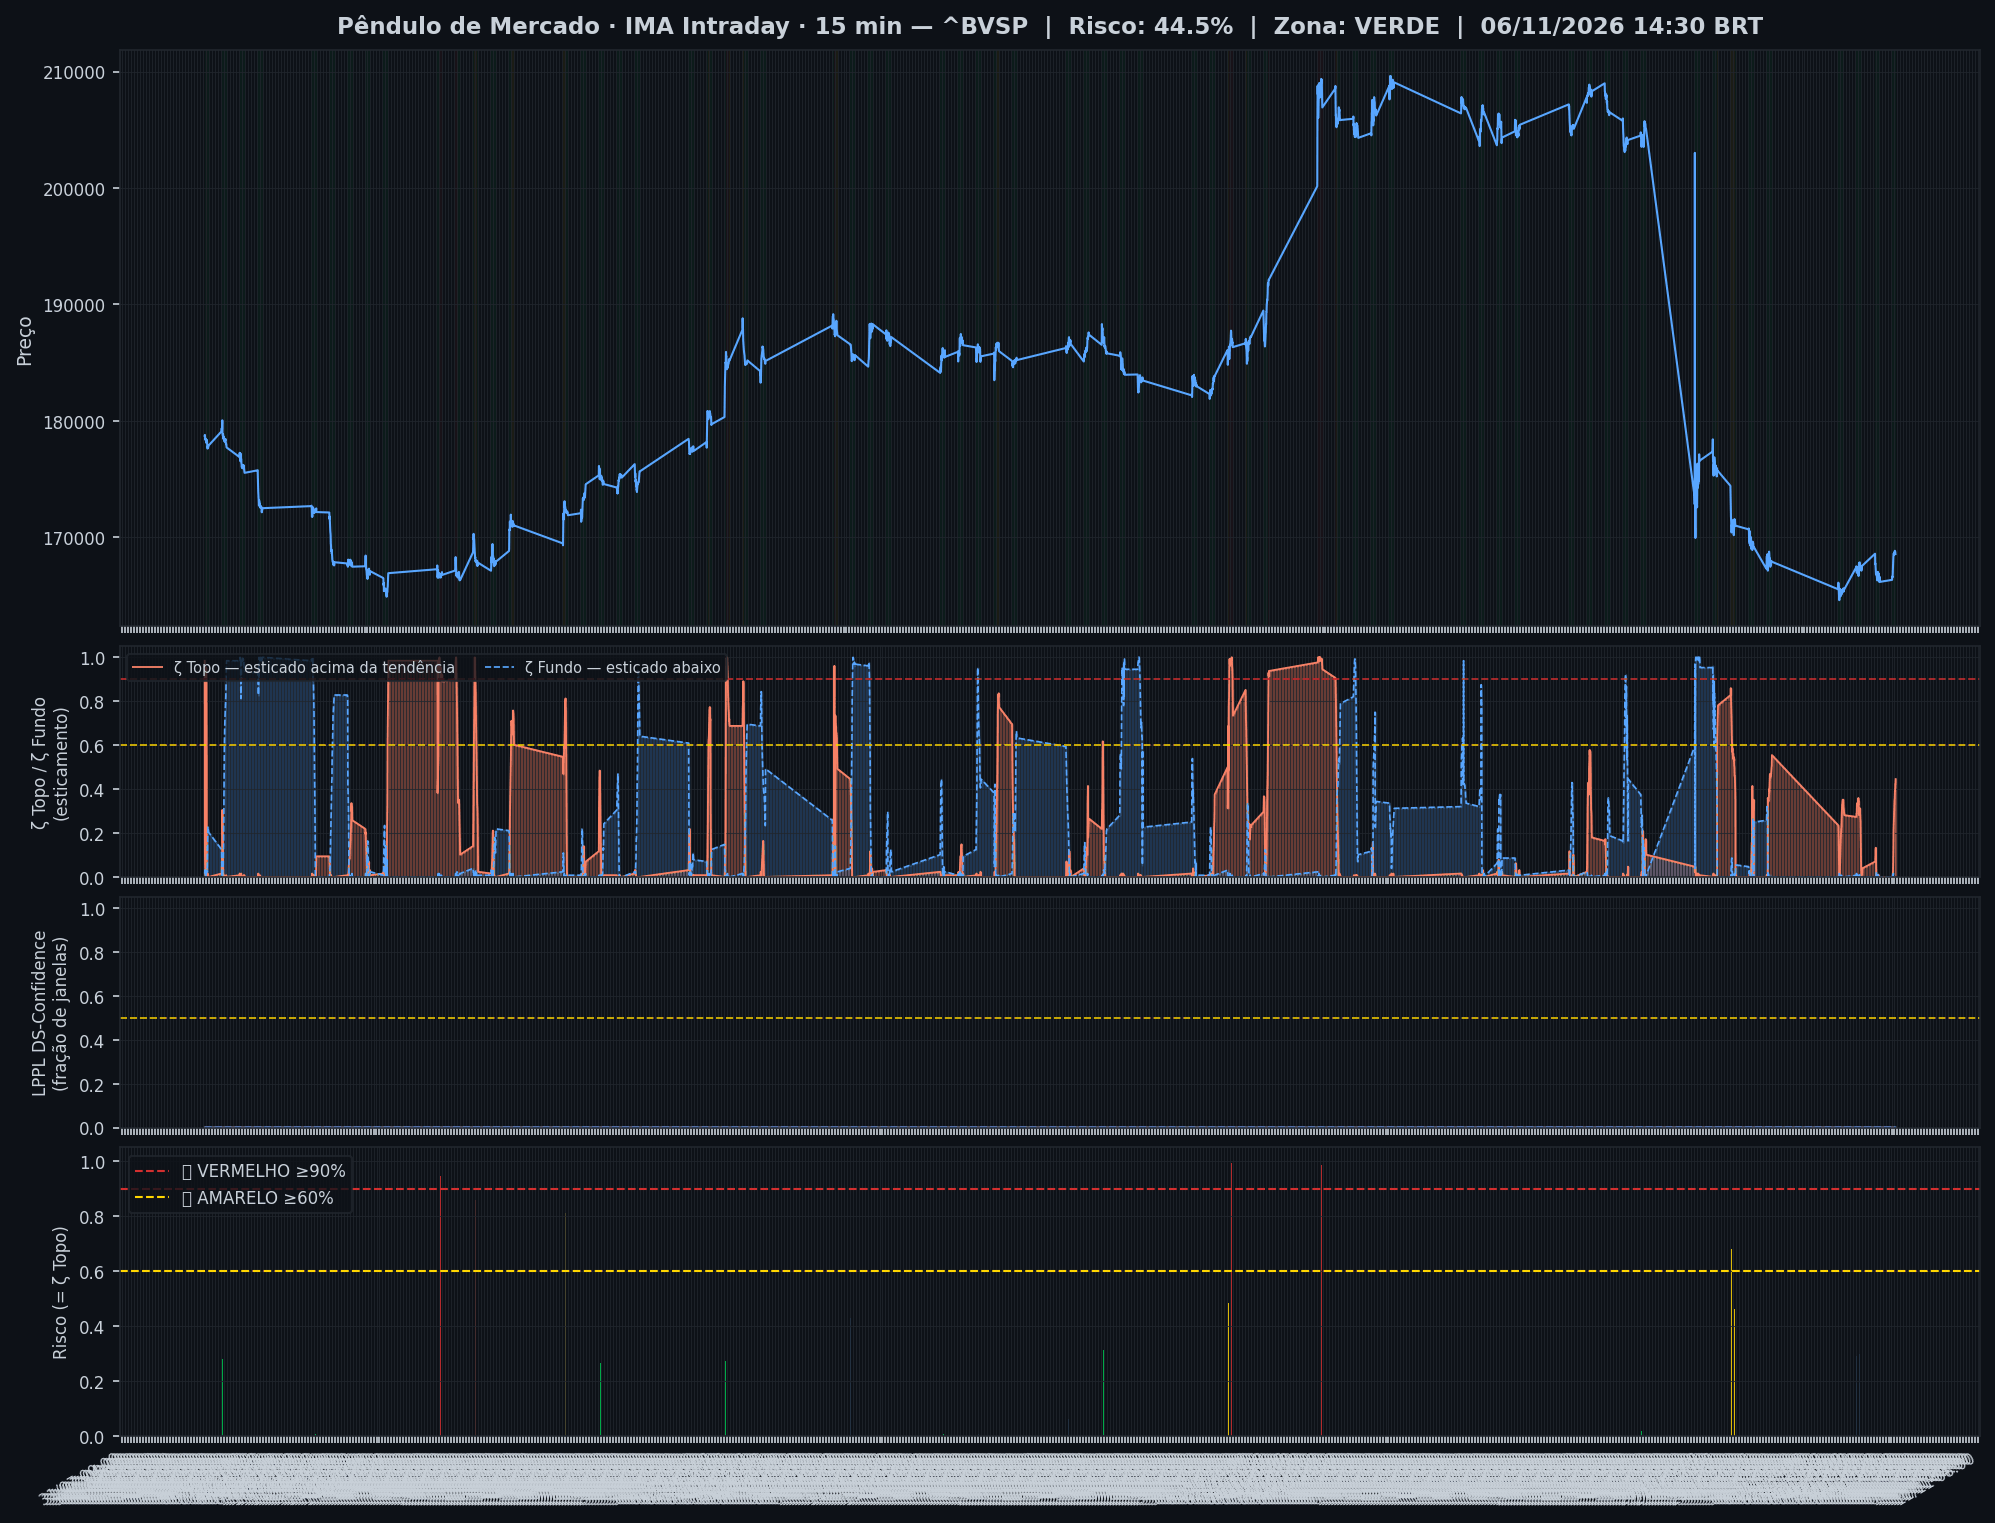
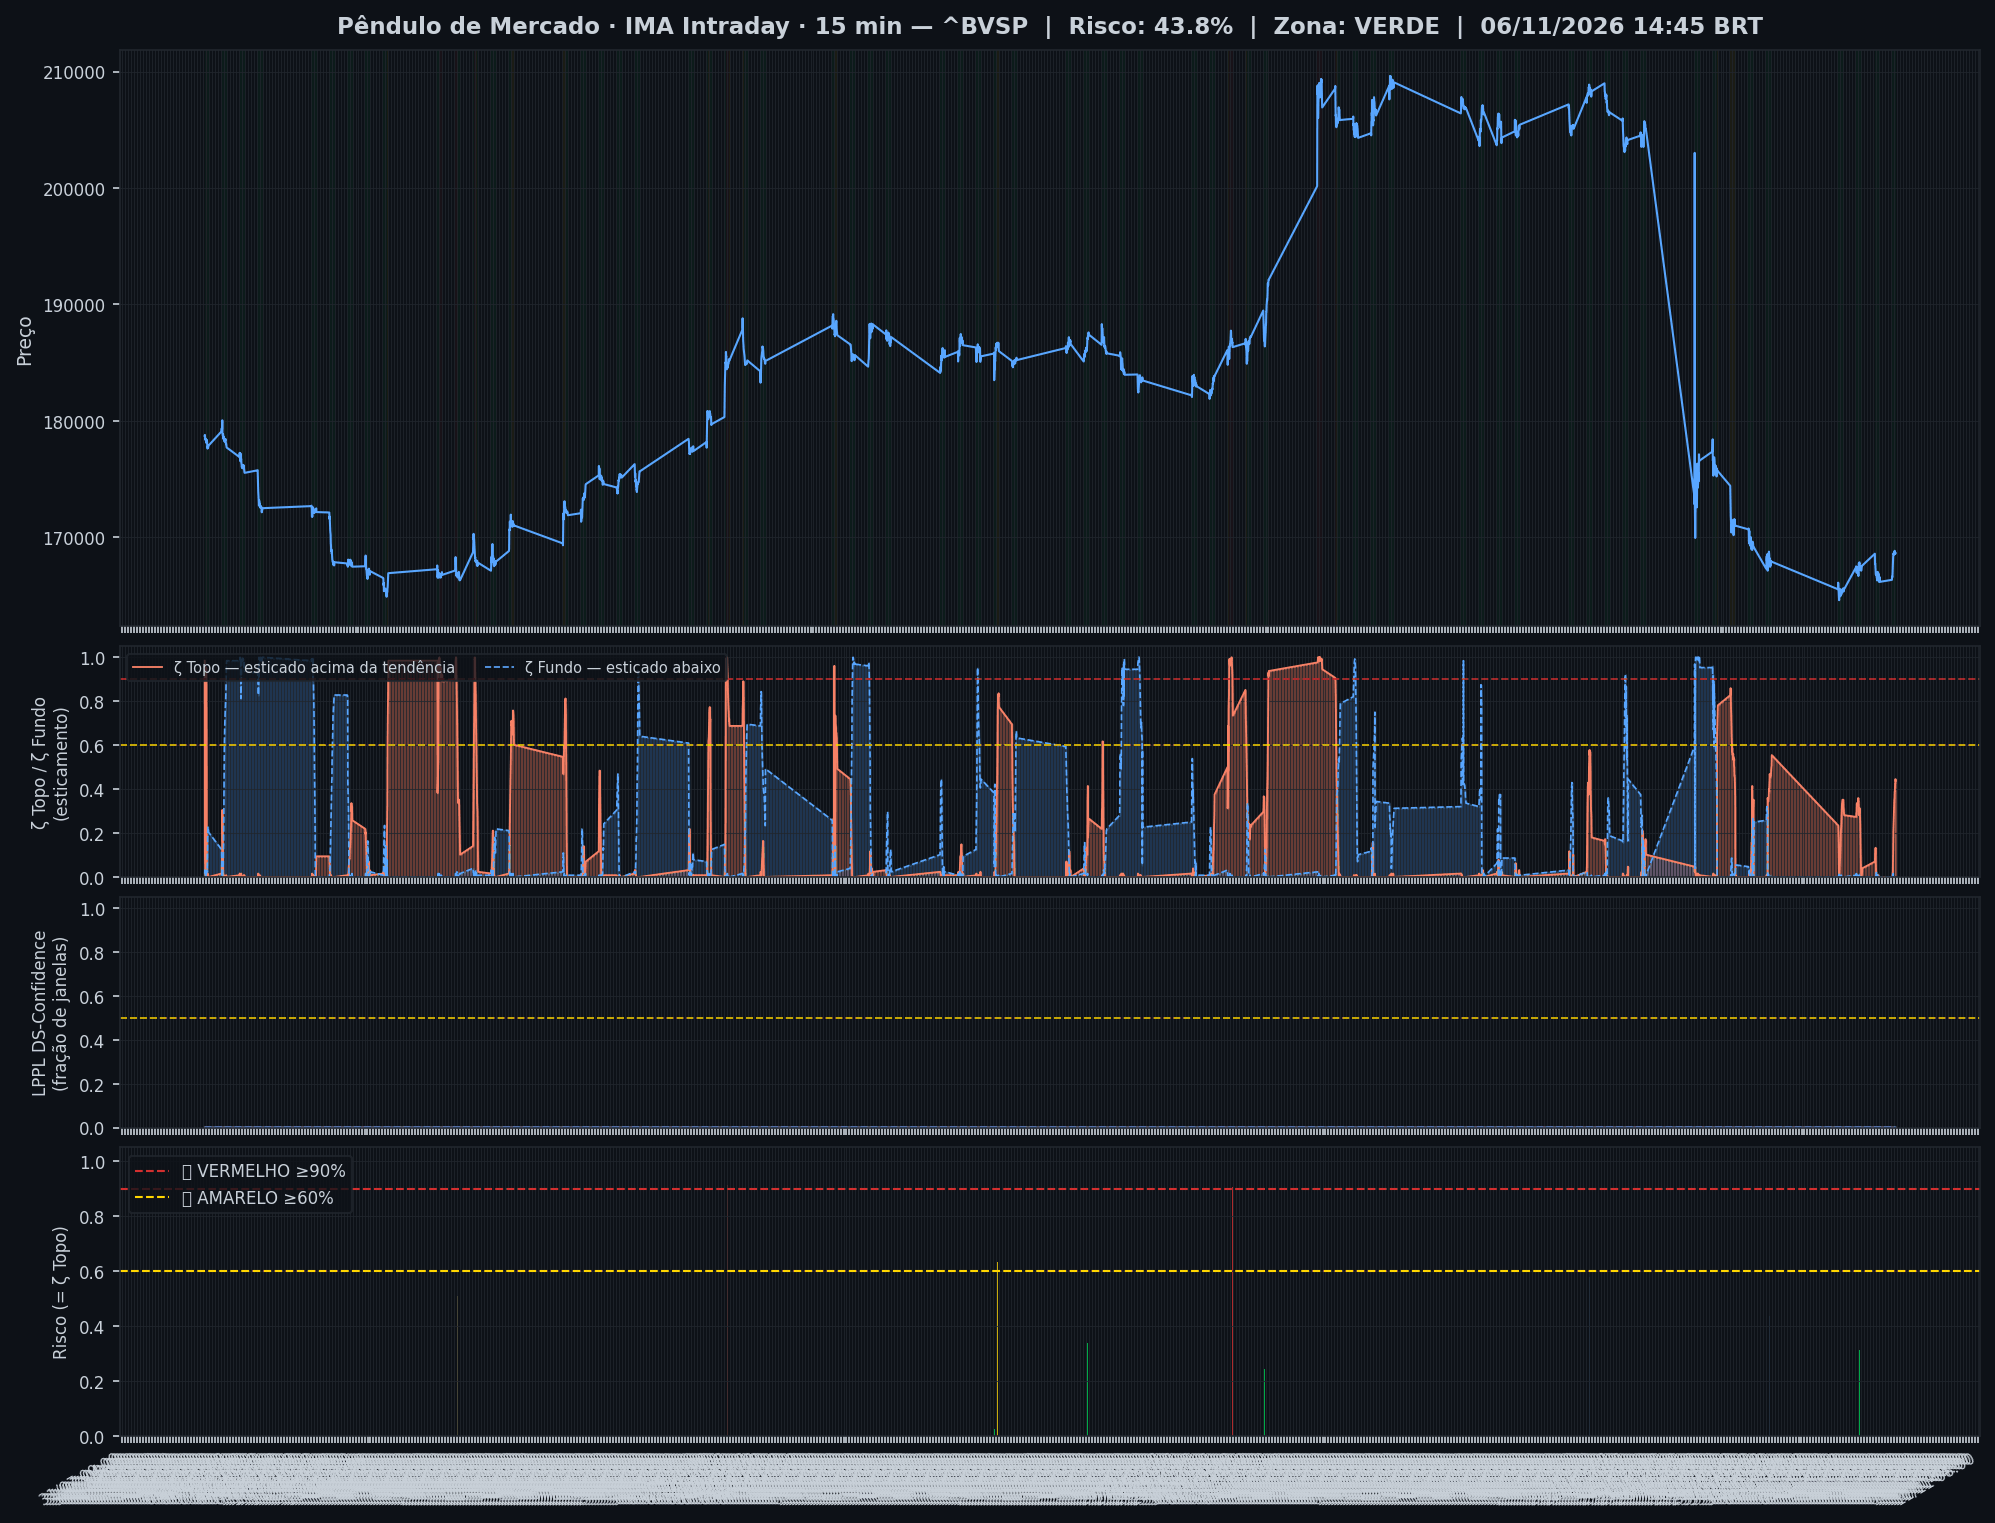
🤖 Auto: Sinal 06/11/2026 15:01

diff --git a/content/intraday/2026-11-06.md b/content/intraday/2026-11-06.md
@@ -1,10 +1,10 @@
 ---
-title: "🟢 Intraday 06/11/2026 14:30 BRT — VERDE"
+title: "🟢 Intraday 06/11/2026 14:45 BRT — VERDE"
 date: 2026-11-06
 tags: [intraday]
 ---
 
-> [!success] Onde o mercado está agora (06/11 14:30, candles de 15 min): **🟢 Calmo**
+> [!success] Onde o mercado está agora (06/11 14:45, candles de 15 min): **🟢 Calmo**
 > `Pânico ◀──────────────●──────▶ Euforia`
 >
 > O Ibovespa está dentro da sua faixa normal, sem excesso para cima nem para baixo.
@@ -20,7 +20,7 @@ tags: [intraday]
 > | 📍 **Sinais** | hoje: nenhum sinal | [abrir](sinais-topo-fundo/) |
 > | 🧪 **Placar ao vivo** | 1 operação(ões), 0 com lucro, soma -0,8% | [abrir](operacoes/) |
 
-> [!success] IMA Intraday · 15 min (06/11 14:30): 🟢 **VERDE** — Risco 45% · ▲ +2 p.p. vs leitura anterior
+> [!success] IMA Intraday · 15 min (06/11 14:45): 🟢 **VERDE** — Risco 44% · ▼ -1 p.p. vs leitura anterior
 > `█████████░░░░░░░░░░░`
 > Preço na faixa normal em torno da tendência.
 
@@ -32,13 +32,13 @@ tags: [intraday]
 >
 > *Leitura educacional baseada em 26 anos de dados, não recomendação. [Como usar](../metodologia/crise#3-como-usar-na-prática).*
 
-| Indicador — IMA Intraday · 15 min (06/11 14:30) | Valor |
+| Indicador — IMA Intraday · 15 min (06/11 14:45) | Valor |
 |---|---|
-| 🔴 ζ Topo — preço esticado acima da tendência | **45%** |
+| 🔴 ζ Topo — preço esticado acima da tendência | **44%** |
 | 🔵 ζ Fundo — preço esticado abaixo da tendência | 0% |
 | 🫧 LPPL bolha — alta super-exponencial (risco de crash) | 0% |
 | 🫧 LPPL antibolha — queda super-exponencial (risco de repique) | 0% |
-| 📊 Ibovespa | 168.574 pts |
+| 📊 Ibovespa | 168.653 pts |
 
 ![Gráfico do sinal](../graficos/sinal_intraday.png)
 
@@ -46,6 +46,7 @@ tags: [intraday]
 
 | Data | Zona | Evento | Risco | ζ Topo | ζ Fundo | LPPL |
 |---|---|---|---|---|---|---|
+| 2026-11-06 14:45 | 🟢 VERDE |  | **44%** | 44% | 0% | 0% |
 | 2026-11-06 14:30 | 🟢 VERDE |  | **45%** | 45% | 0% | 0% |
 | 2026-11-06 14:15 | 🟢 VERDE |  | **42%** | 42% | 0% | 0% |
 | 2026-11-06 14:00 | 🟢 VERDE |  | **42%** | 42% | 0% | 0% |
@@ -75,7 +76,6 @@ tags: [intraday]
 | 2026-11-05 16:15 | 🟢 VERDE |  | **0%** | 0% | 0% | 0% |
 | 2026-11-05 16:00 | 🟢 VERDE |  | **1%** | 1% | 0% | 0% |
 | 2026-11-05 15:45 | 🟢 VERDE |  | **1%** | 1% | 0% | 0% |
-| 2026-11-05 15:30 | 🟢 VERDE |  | **1%** | 1% | 0% | 0% |
 
 <small>Destaques: 🟡 ≥ 60% · 🔴 ≥ 90% (Risco e ζ Topo) · 🔵 ≥ 60% · 🔪 ≥ 90% (ζ Fundo) · 🫧 ≥ 30% · 🫧🔴 ≥ 50% (LPPL)</small>
 
@@ -84,42 +84,42 @@ tags: [intraday]
 **19% dos ativos em tensão** (3🔴 2🟡) · **0 com ζ Fundo alto** — quanto mais ativos disparam juntos, mais confiável o sinal.
 
 > [!danger] Em destaque no multi-ativo
-> 🔴 **SABESP** ζ Topo 99% · 🔴 **BRASIL** ζ Topo 94% · 🟡 **EQUATORIAL** ζ Topo 90% · 🟡 **ITAUUNIBANCO** ζ Topo 72% · 🟡 **REDE D OR** ζ Topo 69%
+> 🔴 **SABESP** ζ Topo 98% · 🔴 **BRASIL** ζ Topo 94% · 🟡 **EQUATORIAL** ζ Topo 87% · 🟡 **ITAUUNIBANCO** ζ Topo 67% · 🟡 **REDE D OR** ζ Topo 67%
 
 | Zona | Ativo | Setor | ζ Topo | ζ Fundo |
 |---|---|---|---|---|
-| 🔴 | **SABESP** | Saneamento | 🔴 **99.2%** | 0.0% |
+| 🔴 | **SABESP** | Saneamento | 🔴 **98.4%** | 0.0% |
 | 🔴 | **BRASIL** | Financeiro | 🔴 **93.8%** | 0.0% |
-| 🔴 | **EQUATORIAL** | Energia | 🟡 **89.8%** | 0.0% |
-| 🟡 | **ITAUUNIBANCO** | Financeiro | 🟡 **71.9%** | 0.0% |
-| 🟡 | **REDE D OR** | Saúde | 🟡 **68.8%** | 0.0% |
-| 🟢 | **LOCALIZA** | Aluguel | 43.0% | 0.8% |
-| 🟢 | **EMBRAER** | Outros | 0.0% | 39.1% |
-| 🟢 | **VALE** | Mineração | 36.7% | 0.0% |
-| 🟢 | **BTGP BANCO** | Financeiro | 36.7% | 0.0% |
-| 🟢 | **ENEVA** | Energia | 36.7% | 0.0% |
-| 🟢 | **COPEL** | Energia | 36.7% | 0.0% |
+| 🔴 | **EQUATORIAL** | Energia | 🟡 **86.7%** | 0.0% |
+| 🟡 | **ITAUUNIBANCO** | Financeiro | 🟡 **67.2%** | 0.0% |
+| 🟡 | **REDE D OR** | Saúde | 🟡 **67.2%** | 0.0% |
+| 🟢 | **LOCALIZA** | Aluguel | 46.1% | 0.0% |
+| 🟢 | **ENEVA** | Energia | 38.3% | 0.0% |
+| 🟢 | **COPEL** | Energia | 37.5% | 0.0% |
 | 🟢 | **ITAUSA** | Financeiro | 35.2% | 0.0% |
-| 🟢 | **BRADESCO** | Financeiro | 24.2% | 0.0% |
-| 🟢 | **GERDAU** | Siderurgia | 0.0% | 24.2% |
-| 🟢 | **VIBRA** | Energia | 19.5% | 0.0% |
+| 🟢 | **EMBRAER** | Outros | 0.0% | 35.2% |
+| 🟢 | **BTGP BANCO** | Financeiro | 32.8% | 0.0% |
+| 🟢 | **VALE** | Mineração | 31.2% | 0.0% |
+| 🟢 | **GERDAU** | Siderurgia | 0.0% | 25.8% |
+| 🟢 | **AXIA ENERGIA** | Energia | 21.1% | 0.0% |
+| 🟢 | **BRADESCO** | Financeiro | 21.1% | 0.0% |
+| 🟢 | **VIBRA** | Energia | 20.3% | 0.0% |
 | 🟢 | **BBSEGURIDADE** | Financeiro | 19.5% | 0.0% |
-| 🟢 | **AXIA ENERGIA** | Energia | 18.8% | 0.0% |
-| 🟢 | **WEG** | Industrial | 1.6% | 18.0% |
-| 🟢 | **PRIO** | Petróleo | 16.4% | 0.0% |
-| 🟢 | **SUZANO S.A.** | Papel/Celulose | 6.2% | 11.7% |
-| 🟢 | **PETROBRAS** | Petróleo | 7.0% | 0.0% |
-| 🟢 | **B3** | Financeiro | 3.9% | 0.0% |
-| 🟢 | **PETROBRAS** | Petróleo | 1.6% | 0.0% |
-| 🟢 | **AMBEV S/A** | Consumo | 1.6% | 0.0% |
-| 🟢 | **ULTRAPAR** | Outros | 0.8% | 1.6% |
-| 🟢 | **USD/BRL** | Câmbio | 0.0% | 1.6% |
+| 🟢 | **PRIO** | Petróleo | 15.6% | 0.0% |
+| 🟢 | **WEG** | Industrial | 0.8% | 13.3% |
+| 🟢 | **PETROBRAS** | Petróleo | 10.2% | 0.0% |
+| 🟢 | **SUZANO S.A.** | Papel/Celulose | 4.7% | 7.8% |
+| 🟢 | **PETROBRAS** | Petróleo | 3.9% | 0.0% |
+| 🟢 | **B3** | Financeiro | 3.1% | 0.0% |
+| 🟢 | **ULTRAPAR** | Outros | 0.0% | 1.6% |
+| 🟢 | **AMBEV S/A** | Consumo | 0.0% | 0.8% |
+| 🟢 | **USD/BRL** | Câmbio | 0.0% | 0.0% |
 
 <small>Destaques: 🟡 ≥ 60% · 🔴 ≥ 90% (Risco e ζ Topo) · 🔵 ≥ 60% · 🔪 ≥ 90% (ζ Fundo) · 🫧 ≥ 30% · 🫧🔴 ≥ 50% (LPPL)</small>
 
 ![Monitor multi-ativo](../graficos/multi_intraday.png)
 
-*Página atualizada em 06/11/2026 14:46 BRT (leitura da barra de 2026-11-06 14:30 BRT).*
+*Página atualizada em 06/11/2026 15:01 BRT (leitura da barra de 2026-11-06 14:45 BRT).*
 
 > [!warning] O que este indicador não faz
 > Medido em 5 anos de Ibovespa, o ζ **não antecipa** topos nem fundos: a capacidade de separar o que sobe do que cai ficou em 0,49–0,52, e 0,50 é moeda jogada ao ar. Ele descreve o estado de agora; não é aviso do que vem. As zonas verde/amarelo/vermelho continuam na página como descrição desse estado — **não as use como sinal de entrada ou saída**.

diff --git a/content/index.md b/content/index.md
@@ -6,9 +6,9 @@ tags: [home]
 
 **As ondas do mercado, explicadas.** Leitura do Ibovespa com estatística de 26 anos, baseada no trabalho de pesquisadores e traders reconhecidos e adaptada por Jarbas Daniel da Costa.
 
-*Última atualização: 06/11/2026 14:46 BRT · Intraday 15min*
+*Última atualização: 06/11/2026 15:01 BRT · Intraday 15min*
 
-> [!success] Onde o mercado está agora (06/11 14:30, candles de 15 min): **🟢 Calmo**
+> [!success] Onde o mercado está agora (06/11 14:45, candles de 15 min): **🟢 Calmo**
 > `Pânico ◀──────────────●──────▶ Euforia`
 >
 > O Ibovespa está dentro da sua faixa normal, sem excesso para cima nem para baixo.
@@ -20,7 +20,7 @@ tags: [home]
 
 | Módulo | Agora | |
 |---|---|---|
-| 🌊 **Sinal de Crise** | 🟢 VERDE · 🟢 calmo · ζ Topo 45% | [relatório](intraday/2026-11-06) |
+| 🌊 **Sinal de Crise** | 🟢 VERDE · 🟢 calmo · ζ Topo 44% | [relatório](intraday/2026-11-06) |
 | 📈 **Tendência MME9** | Diário — fora<br>Semanal — fora | [abrir](operacoes/tendencia) |
 | 🎯 **Entradas do método** | ⏳ aguardando: Diário · Nadaraya, Diário · Semáforo N3 após ζ Fundo | [abrir](operacoes/entradas) |
 | 📍 **Sinais** | hoje: nenhum sinal | [abrir](sinais-topo-fundo/) |
@@ -54,18 +54,18 @@ tags: [home]
 > *Leitura educacional baseada em 26 anos de dados, não recomendação. [Como usar](metodologia/crise#3-como-usar-na-prática).*
 
 > [!info]- 🌊 Detalhes do Sinal de Crise (indicadores e últimos 7 pregões)
-> > [!success] IMA Intraday · 15 min (06/11 14:30): 🟢 **VERDE** — Risco 45% · ▲ +2 p.p. vs leitura anterior
+> > [!success] IMA Intraday · 15 min (06/11 14:45): 🟢 **VERDE** — Risco 44% · ▼ -1 p.p. vs leitura anterior
 > > `█████████░░░░░░░░░░░`
 > > Preço na faixa normal em torno da tendência.
 >
 >
-> | Indicador — IMA Intraday · 15 min (06/11 14:30) | Valor |
+> | Indicador — IMA Intraday · 15 min (06/11 14:45) | Valor |
 > |---|---|
-> | 🔴 ζ Topo — preço esticado acima da tendência | **45%** |
+> | 🔴 ζ Topo — preço esticado acima da tendência | **44%** |
 > | 🔵 ζ Fundo — preço esticado abaixo da tendência | 0% |
 > | 🫧 LPPL bolha — alta super-exponencial (risco de crash) | 0% |
 > | 🫧 LPPL antibolha — queda super-exponencial (risco de repique) | 0% |
-> | 📊 Ibovespa | 168.574 pts |
+> | 📊 Ibovespa | 168.653 pts |
 >
 > **Multi-ativo:** 19% em tensão (3🔴 2🟡 de 26 ativos)
 >
@@ -73,7 +73,7 @@ tags: [home]
 >
 > | Data | Zona | Risco | ζ Topo | ζ Fundo | LPPL |
 > |---|---|---|---|---|---|
-> | [06/11/2026](intraday/2026-11-06) | 🟢 VERDE | **45%** | 45% | 0% | 0% |
+> | [06/11/2026](intraday/2026-11-06) | 🟢 VERDE | **44%** | 44% | 0% | 0% |
 > | [05/11/2026](intraday/2026-11-05) | 🟢 VERDE | **0%** | 0% | 0% | 0% |
 >
 > <small>Destaques: 🟡 ≥ 60% · 🔴 ≥ 90% (Risco e ζ Topo) · 🔵 ≥ 60% · 🔪 ≥ 90% (ζ Fundo) · 🫧 ≥ 30% · 🫧🔴 ≥ 50% (LPPL)</small>

diff --git a/content/operacoes/entradas.md b/content/operacoes/entradas.md
@@ -31,7 +31,7 @@ description: "Compra depois de um sinal de fundo: Nadaraya no diário, semáforo
 > | Diário · Semáforo N3 após ζ Fundo | 07/07/26 a 172.021 | 10/08/26 a 172.021 | **+0,0%** | stop no preço de entrada |
 > | H4 · Semáforo N2 | 12/06/26 14h a 171.134 | 15/06/26 14h a 171.134 | **+0,0%** | stop no preço de entrada |
 >
-> <small>Atualizado 05/11 19:00 · checado no pregão às 14:45. Nota: ✅ passou no teste fora da amostra (walk-forward 2008–2026) · 🧪 em teste (H4, com aviso no Telegram) ou em observação (ζ, sem aviso) · 🧪 na tabela = operação do teste ao vivo.</small>
+> <small>Atualizado 05/11 19:00 · checado no pregão às 15:00. Nota: ✅ passou no teste fora da amostra (walk-forward 2008–2026) · 🧪 em teste (H4, com aviso no Telegram) ou em observação (ζ, sem aviso) · 🧪 na tabela = operação do teste ao vivo.</small>
 >
 > *Regras: depois de um sinal de fundo, o Diário entra quando o Nadaraya vira para cima; o Semanal e o H4 entram quando um fundo do semáforo fica fixo. Stop e saída de cada regra na [metodologia](metodologia/regras-de-operacao#entradas-do-método). Nenhuma regra de venda passou no teste. Os números do histórico têm viés de escolha (overfitting); o placar ao vivo é o que vale. Leitura educacional do método, não recomendação.*
 

diff --git a/content/historico.md b/content/historico.md
@@ -5,7 +5,7 @@ tags: [historico]
 
 # 📜 Histórico de leituras (v5)
 
-**2.195 leituras** desde 2026-07-03. Na página ficam os últimos 3 dias leitura por leitura e o resumo de cada dia anterior; o registro inteiro está no arquivo para baixar.
+**2.196 leituras** desde 2026-07-03. Na página ficam os últimos 3 dias leitura por leitura e o resumo de cada dia anterior; o registro inteiro está no arquivo para baixar.
 
 [**Baixar o histórico completo**](historico-completo.csv) (96 KB · abre no Excel e no LibreOffice)
 
@@ -16,6 +16,7 @@ tags: [historico]
 
 | Data | Modo | Zona | Risco | IMA | LPPL |
 |---|---|---|---|---|---|
+| 2026-11-06 14:45 | intraday | 🟢 VERDE | 44% | 44% | 0% |
 | 2026-11-06 14:30 | intraday | 🟢 VERDE | 45% | 45% | 0% |
 | 2026-11-06 14:15 | intraday | 🟢 VERDE | 42% | 42% | 0% |
 | 2026-11-06 14:00 | intraday | 🟢 VERDE | 42% | 42% | 0% |

diff --git a/content/operacoes/ranking.md b/content/operacoes/ranking.md
@@ -5,7 +5,7 @@ tags: [operacoes]
 description: "As regras de compra do site ordenadas pelo resultado, com treino, teste e placar ao vivo"
 ---
 
-*Atualizado 06/11/2026 14:46 · histórico simulado com as regras congeladas em 23/10/2026 + placar ao vivo.*
+*Atualizado 06/11/2026 15:01 · histórico simulado com as regras congeladas em 23/10/2026 + placar ao vivo.*
 
 As regras de compra do site, **da que mais rendeu para a que menos rendeu**. O resultado é por operação, no índice à vista, sem custos e sem juros compostos (a soma é só a soma das operações). **Treino** = entradas de 2001 a 2013 e **teste** = 2014 em diante: uma regra só é confiável se ganhou nos dois. O único resultado sem nenhum ajuste ao histórico é o **placar ao vivo**.
 

diff --git a/content/linha-do-tempo/index.md b/content/linha-do-tempo/index.md
@@ -5,7 +5,7 @@ description: "Todo sinal, ordem, stop e aviso do Pêndulo de Mercado, do mais re
 tags: [eventos]
 ---
 
-*Atualizada 06/11/2026 14:46 BRT · a cada 15 min no pregão e às 19h.*
+*Atualizada 06/11/2026 15:01 BRT · a cada 15 min no pregão e às 19h.*
 
 Tudo o que o sistema fez ou detectou, **do mais recente para o mais antigo**: sinais de topo e fundo, ordens de compra e de venda armadas, compras, vendas, stops, avisos de 🚨 preço perto do nível e mudanças da Crise. Os **últimos 7 dias** ficam abertos; o resto, por **ano → mês → dia**.
 
